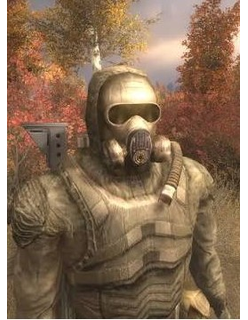
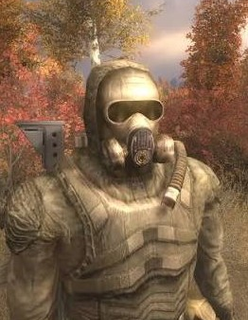
Crop all faction skins to uniform 248x320 cover
Switch avatar fit from letterbox to center-cover crop so every
faction/rank skin fills the same profile slot without side gaps.

diff --git a/app/avatar_render.py b/app/avatar_render.py
@@ -233,14 +233,30 @@ def _avatar_candidates(tier: int, faction: str | None = None) -> tuple[Path, ...
 
 
 def _fit_avatar_image(source: Image.Image, width: int, height: int) -> Image.Image:
-    """Вписать картинку в целевой слот (как раньше), чтобы карточка не «поехала»."""
-    fitted = source.convert("RGBA").copy()
-    fitted.thumbnail((width, height), Image.Resampling.LANCZOS)
-    canvas = Image.new("RGBA", (width, height), (0, 0, 0, 0))
-    offset_x = (width - fitted.width) // 2
-    offset_y = height - fitted.height
-    canvas.paste(fitted, (offset_x, offset_y), fitted)
-    return canvas
+    """Обрезать/масштабировать в точный слот (cover): один размер, без полей по бокам.
+
+    Картинка заполняет width×height целиком; лишнее срезается со всех сторон
+    по центру. Позиция на карточке профиля не меняется.
+    """
+    img = source.convert("RGBA")
+    if img.width <= 0 or img.height <= 0:
+        return Image.new("RGBA", (width, height), (0, 0, 0, 0))
+
+    scale = max(width / img.width, height / img.height)
+    new_w = max(1, int(round(img.width * scale)))
+    new_h = max(1, int(round(img.height * scale)))
+    resized = img.resize((new_w, new_h), Image.Resampling.LANCZOS)
+
+    left = max(0, (new_w - width) // 2)
+    top = max(0, (new_h - height) // 2)
+    right = left + width
+    bottom = top + height
+    cropped = resized.crop((left, top, right, bottom))
+    if cropped.size != (width, height):
+        canvas = Image.new("RGBA", (width, height), (0, 0, 0, 0))
+        canvas.paste(cropped, (0, 0), cropped)
+        return canvas
+    return cropped
 
 
 def _resolve_existing_image(candidate: Path) -> Path | None:

diff --git a/README.md b/README.md
@@ -20,7 +20,7 @@
       (например `Долг1` = Новичек Долга, `Свобода3` = Ветеран Свободы)
     - можно положить исходную папку в `assets/avatars/скины/` или импортировать:
       `python3 scripts/import_faction_skins.py "/path/to/скины"`
-    - картинки автоматически подгоняются под слот профиля **248×320**
+    - картинки автоматически обрезаются/масштабируются в слот профиля **248×320** (без полей)
     - fallback: `assets/avatars/stalker_default.png`
    - визуальная "ава по снаряге": образ персонажа меняется вместе с улучшением брони/шлема
    - система скинов по прогрессу снаряги:

diff --git a/assets/avatars/factions/README.md b/assets/avatars/factions/README.md
@@ -41,4 +41,5 @@ assets/avatars/скины/Долг/Долг1.png
 python3 scripts/import_faction_skins.py "/path/to/скины"
 ```
 
-Скрипт подгоняет картинки под слот профиля **248×320**, как текущая аватарка.
+Скрипт подгоняет картинки под слот профиля **248×320** (cover-обрезка
+со всех сторон по центру, без прозрачных полей).
